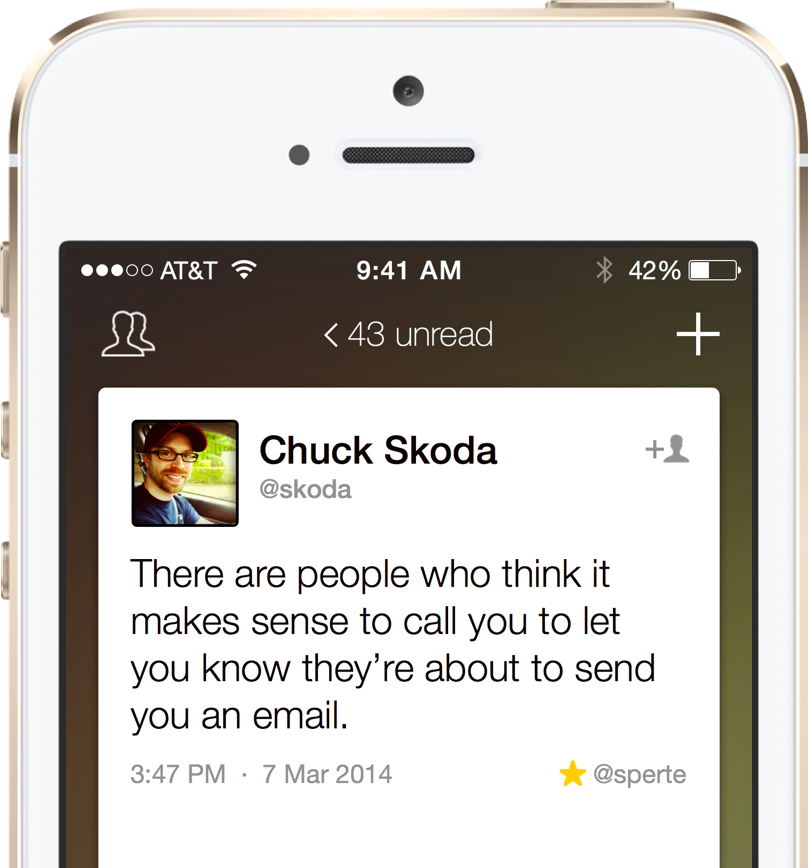
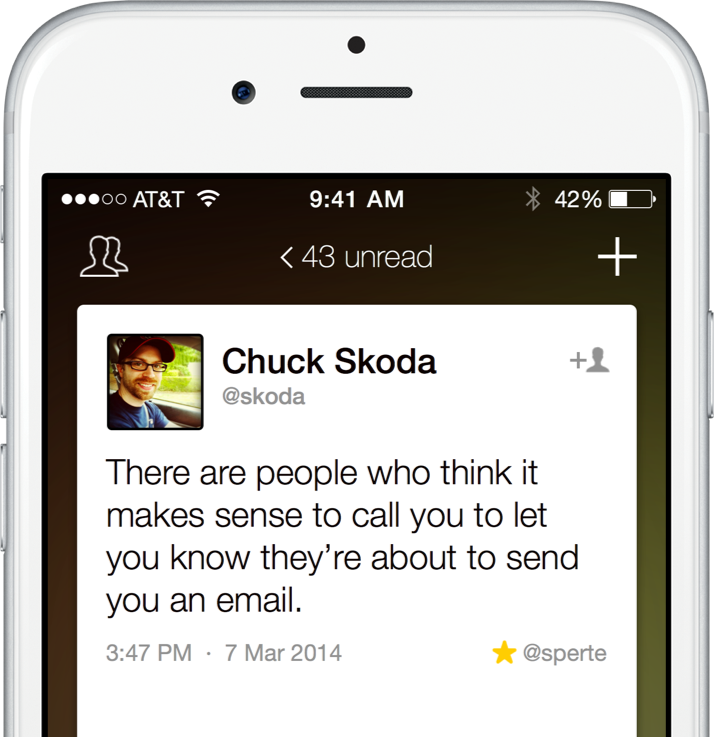
swapped out iPhone image and hid some stuff

diff --git a/starbird/css/main.css b/starbird/css/main.css
@@ -3,6 +3,9 @@
   margin: auto;
   max-width: 100%; }
 
+.nope {
+  display: none; }
+
 * {
   box-sizing: border-box;
   font-family: 'Open Sans', sans-serif;
@@ -104,7 +107,7 @@ footer {
   header {
     min-height: calc(50%);
     padding: 15vh 0;
-    background: url(../img/masthead_iphone-sm.png) 90% 100%/40% auto no-repeat, linear-gradient(to bottom, #ffcd02 0%, #ffe371 100%) 50% 100%/100% 100% no-repeat; }
+    background: url(../img/masthead_iphone-lg.png) 90% 100%/40% auto no-repeat, linear-gradient(to bottom, #ffcd02 0%, #ffe371 100%) 50% 100%/100% 100% no-repeat; }
     header h1,
     header h2,
     header .appstore {
@@ -119,12 +122,10 @@ footer {
 
   section {
     float: left;
-    width: 50%; }
+    width: 33%; }
     section#hello_signal {
       float: none;
       width: 100%; }
-    section:nth-child(odd) {
-      clear: left; }
     section h3 {
       font-size: 2.5vmax; }
     section p {

diff --git a/starbird/css/main.scss b/starbird/css/main.scss
@@ -12,6 +12,9 @@
 	margin: auto;
 	max-width: 100%;
 }
+.nope {
+	display: none;
+}
 
 
 // Globals =====
@@ -133,7 +136,7 @@ footer {
 	header {
 		min-height: calc(50%);
 		padding: 15vh 0;
-		background: url(../img/masthead_iphone-sm.png) 90% 100% / 40% auto no-repeat, linear-gradient(to bottom,  #ffcd02 0%,#ffe371 100%) 50% 100% / 100% 100% no-repeat;
+		background: url(../img/masthead_iphone-lg.png) 90% 100% / 40% auto no-repeat, linear-gradient(to bottom,  #ffcd02 0%,#ffe371 100%) 50% 100% / 100% 100% no-repeat;
 		h1,
 		h2,
 		.appstore {
@@ -152,14 +155,14 @@ footer {
 	}
 	section {
 		float: left;
-		width: 50%;
+		width: 33%;
 		&#hello_signal {
 			float: none;
 			width: 100%;
 		}
-		&:nth-child(odd) {
-			clear: left;
-		}
+		// &:nth-child(odd) {
+		// 	clear: left;
+		// }
 		h3 {
 			font-size: 2.5vmax;
 		}

diff --git a/starbird/index.html b/starbird/index.html
@@ -21,7 +21,7 @@
 		<section id="hello_signal">
 			<h3>Hello signal, goodbye noise</h3>
 			<p>Starbird surfaces the best of Twitter by only showing tweets that have already been favorited.</p>
-			<div id="example-deck">
+			<div id="example-deck" class="nope">
 				<img src="img/example_card-01-sm.png" alt="">
 				<img src="img/example_card-01-sm.png" alt="">
 				<img src="img/example_card-01-sm.png" alt="">
@@ -46,7 +46,7 @@
 			<img src="img/interactions-sm.png" class="rimg">
 		</section>
 
-		<section id="boring_backgrounds">
+		<section id="boring_backgrounds" class="nope">
 			<h3>Boring backgrounds be gone</h3>
 			<p>Starbird matches your personality by blurring your profile image for its background.</p>
 			<img src="img/backgrounds-sm.png" class="rimg">
